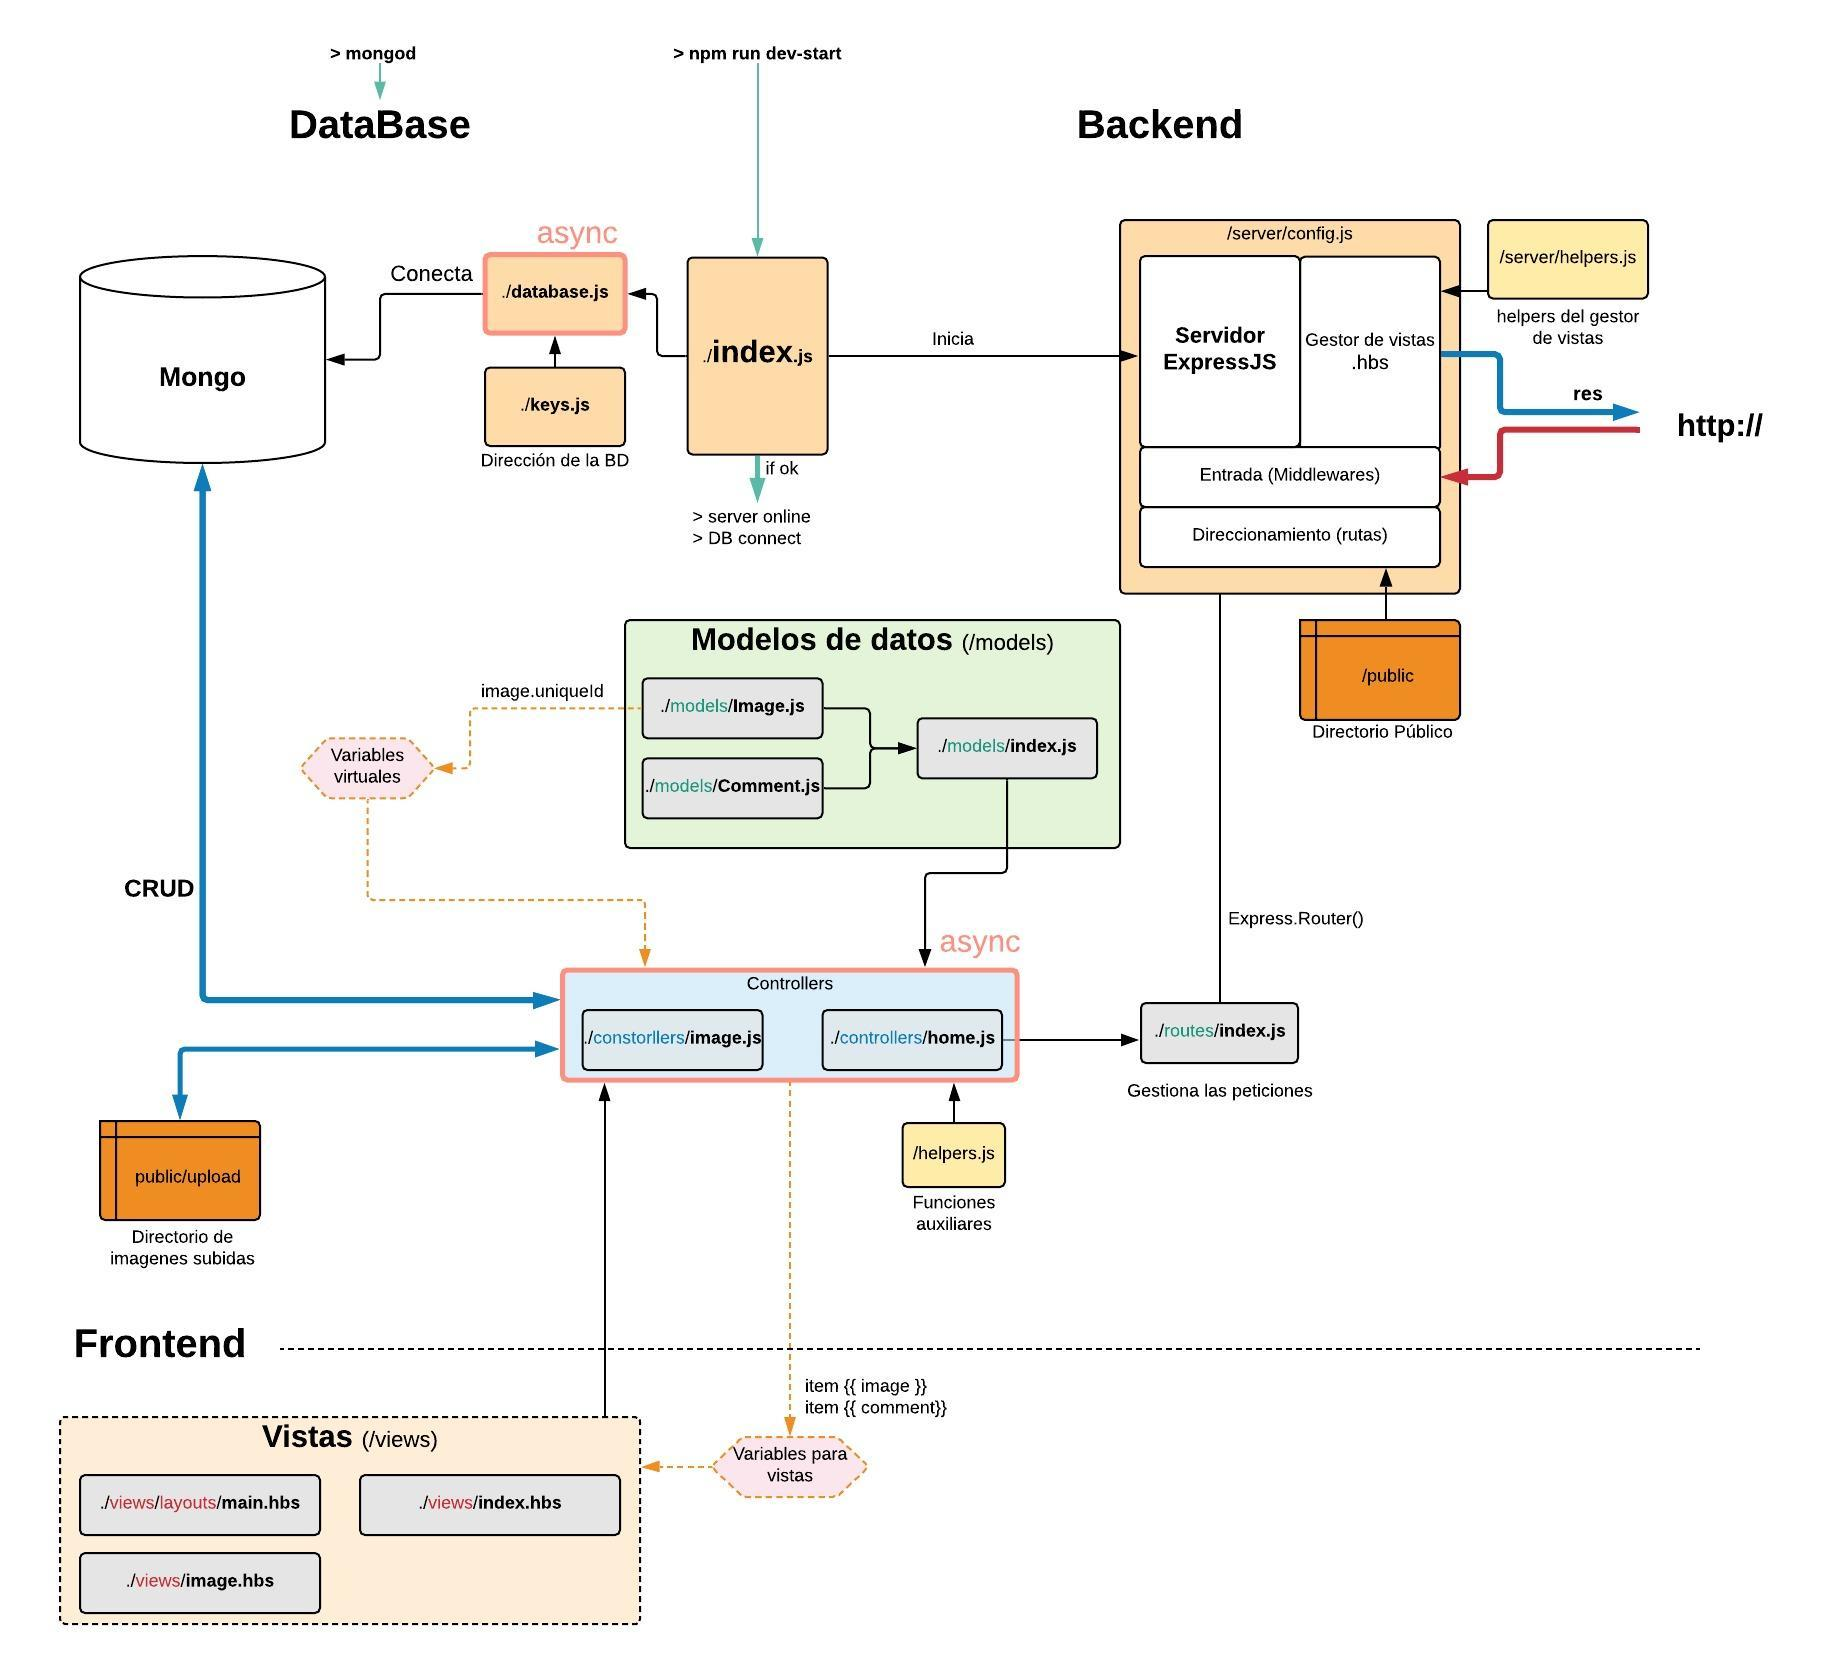
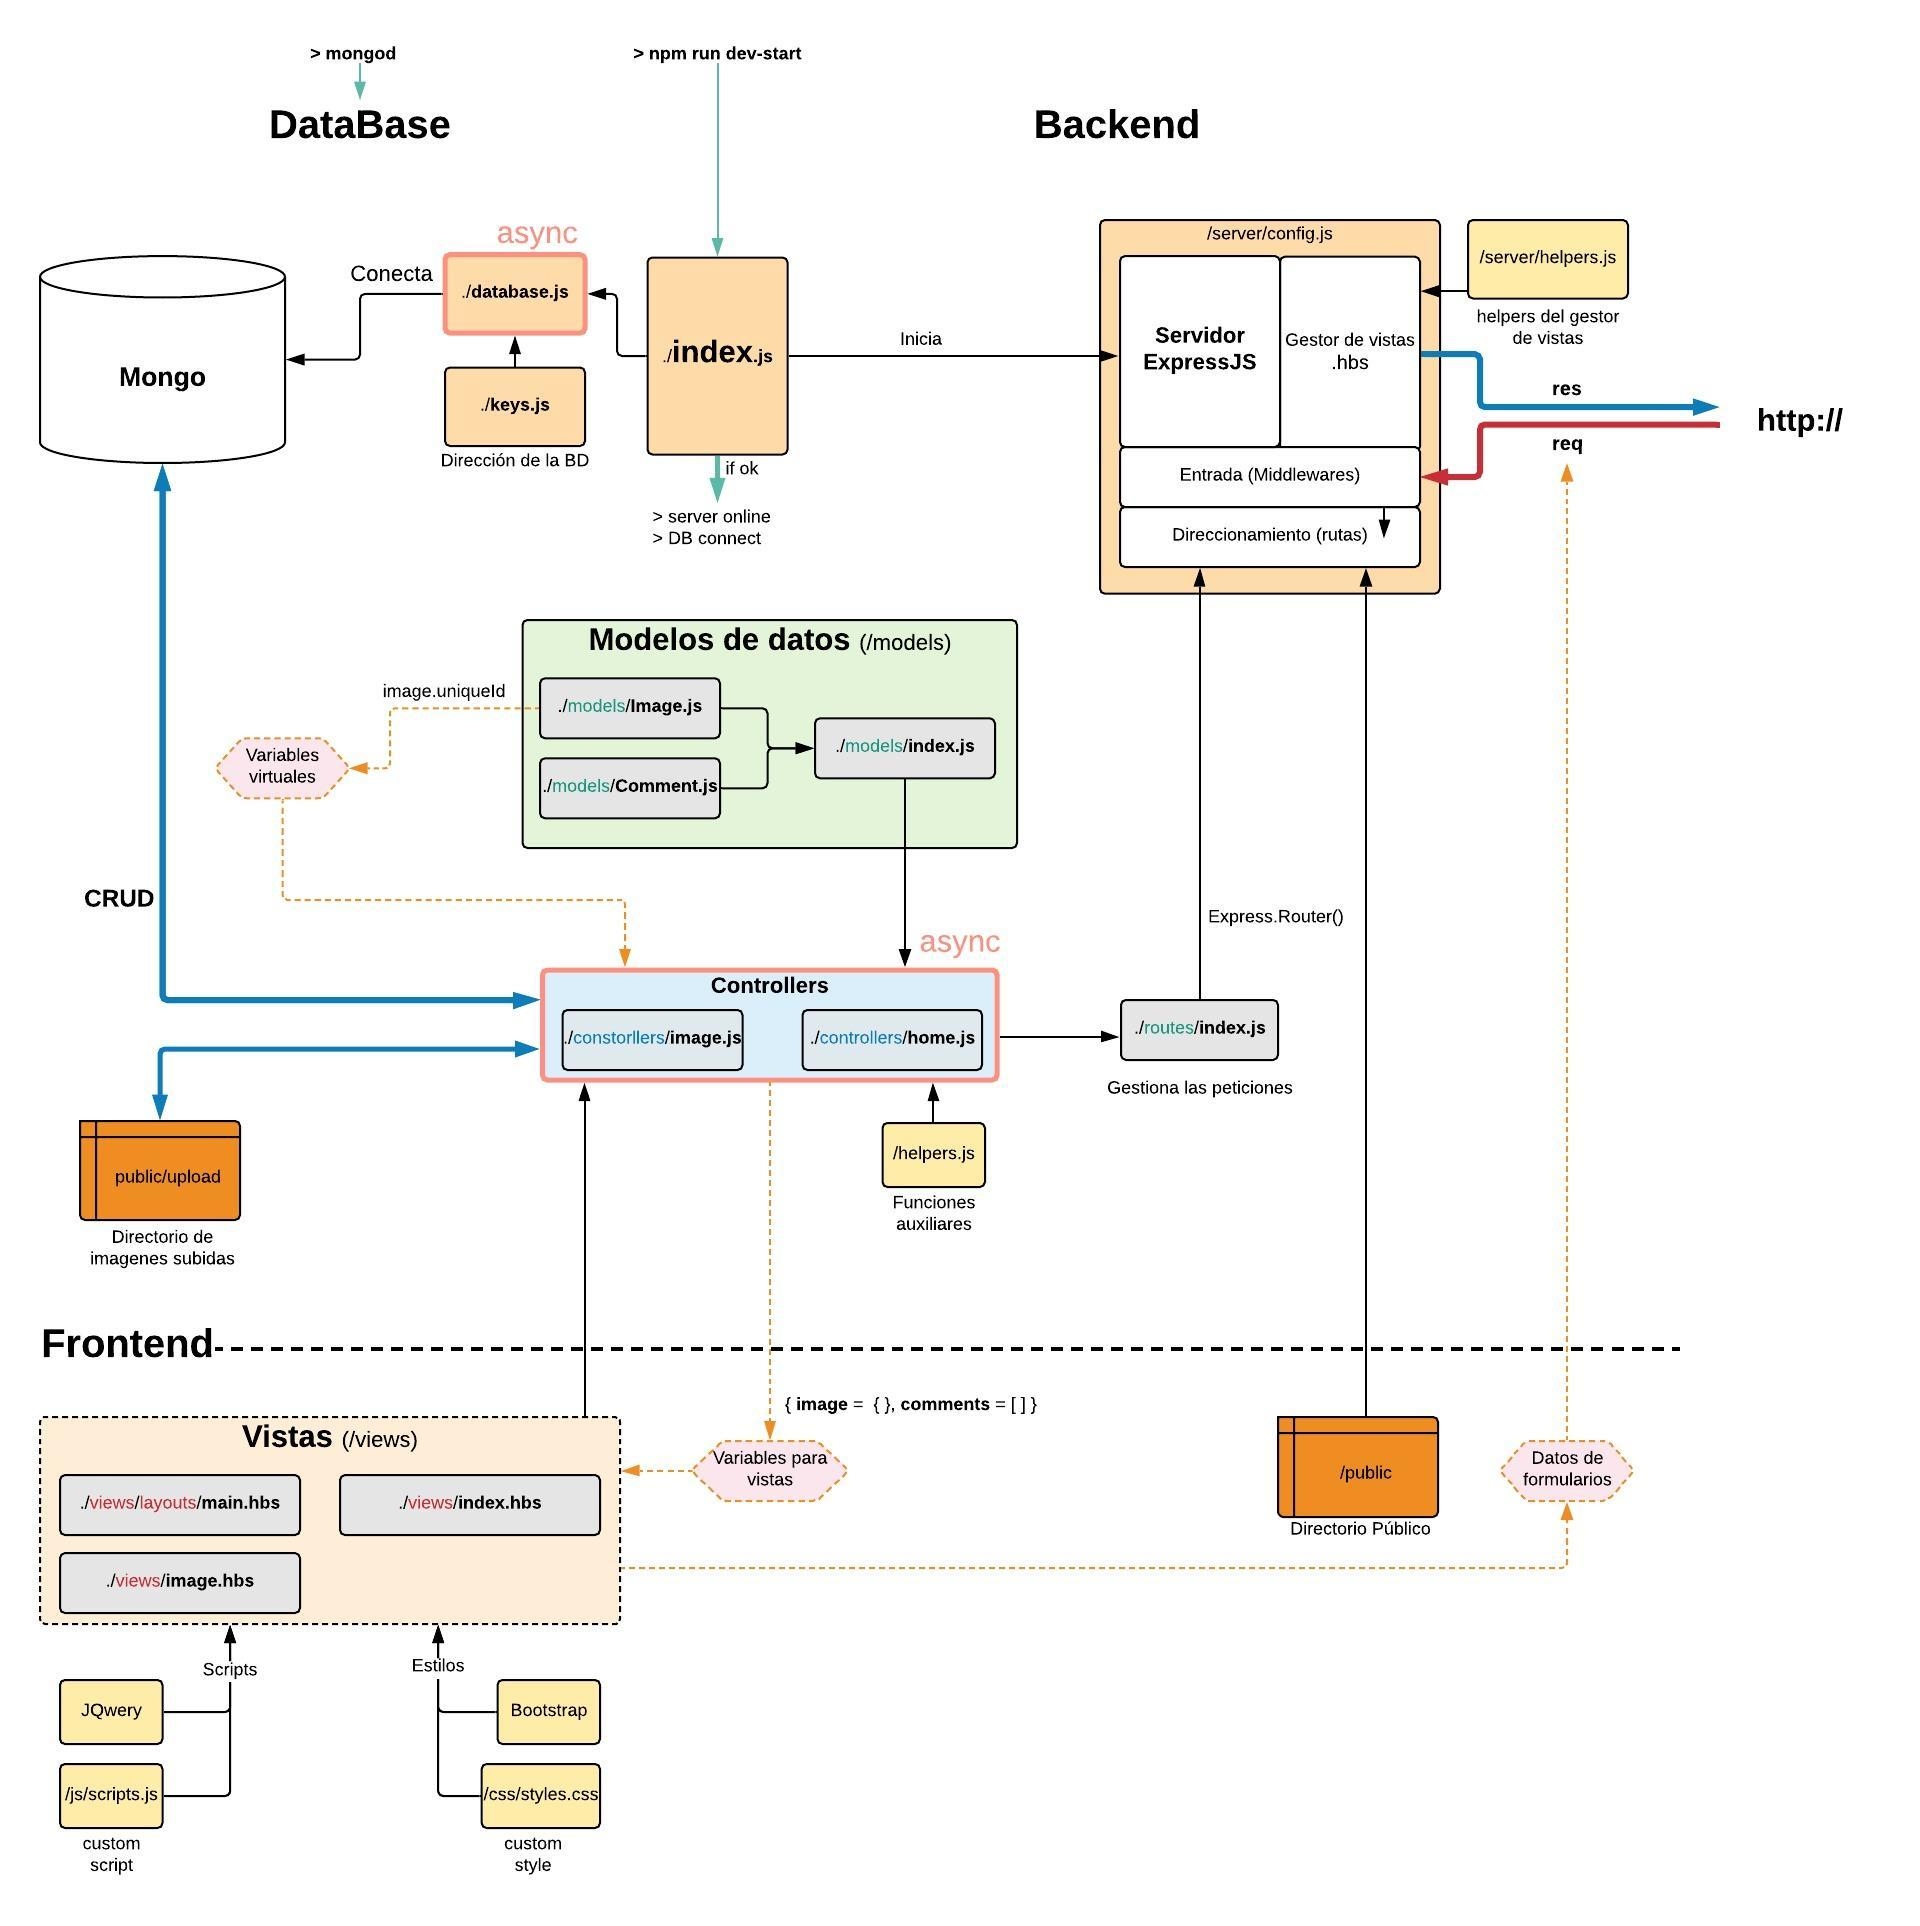
... Contador de visitas y likes funcional

diff --git a/src/controllers/image.js b/src/controllers/image.js
@@ -7,6 +7,7 @@
 const path = require('path');                             // Funciones para nombres de directorios
 const fs = require('fs-extra');                           // Funciones extra file system
 const md5 = require('md5');                               // Manejo de hash
+
 const { randomNumber } = require('../helpers/libs');      // Helper para nombres aleatorios
 const { Image, Comment } = require('../models/index');    // Modelos de la base de datos
 
@@ -17,9 +18,20 @@ const ctrl = {};
  */
 ctrl.index = async (req, res) => {
   // Búsqueda. La expresión regular es para que incluya la extensión en la dirección 
-  const image = await Image.findOne({ filename: { $regex: req.params.image_id } });  
-  const comments = await Comment.find({ image_id: image._id });
-  res.render('image', { image, comments });
+  let viewModel = { images: {}, comments: [] };
+
+  const image = await Image.findOne({ filename: { $regex: req.params.image_id } });
+  if (image) {
+    image.views += 1;       // Actualiza contador de views
+    viewModel.image = image;
+    image.save()
+    const comments = await Comment.find({ image_id: image._id })
+      .sort({ timestamp: 1 });
+    viewModel.comments = comments;
+    res.render('image', viewModel);
+  } else {
+    res.redirect('/');
+  }
 };
 
 /** Subiendo imagen al servidor 
@@ -62,9 +74,19 @@ ctrl.create = (req, res) => {
 };
 
 
-
-ctrl.like = (req, res) => {
-
+/** Like
+ * Solicitado desde botón 'like' recibe el Id de la imagen 
+ * y suma uno
+ * */
+ctrl.like = async (req, res) => {
+  const image = await Image.findOne({ filename: { $regex: req.params.image_id } });
+  if (image) {
+    image.likes += 1;
+    await image.save();
+    res.json({ likes: image.likes });
+  } else {
+    res.status(500).json({ error: 'Internal Error' });
+  }
 };
 
 /** Añade comentario

diff --git a/tutorial/Red social Imgur - Proyecto terminado/src/controllers/image.js b/tutorial/Red social Imgur - Proyecto terminado/src/controllers/image.js
@@ -13,11 +13,11 @@ ctrl.index = async (req, res) => {
   let viewModel = { image: {}, comments: [] };
   const image = await Image.findOne({filename: { $regex: req.params.image_id }});
   if (image) {
-    image.views = image.views + 1;
+    image.views += 1;
     viewModel.image = image;
     image.save();
     const comments = await Comment.find({image_id: image._id})
-      .sort({'timestamp': 1});
+      .sort({timestamp: 1});
     viewModel.comments = comments;
     viewModel = await sidebar(viewModel);
     res.render('image', viewModel);

diff --git a/src/public/js/scripts.js b/src/public/js/scripts.js
@@ -1,0 +1,17 @@
+
+/** LIKE BUTTON
+ * Al presionarlo, se obtiene el id de la imagen y
+ * se utiliza para ejecutar una petición POST
+ */
+// Like Button Request
+$('#btn-like').click(function (e) {
+  console.log('detectada presión en botón like')
+  e.preventDefault();
+  const imgId = $(this).data('id');
+  console.log(imgId);
+  $.post(`/images/${imgId}/like`)
+    .done((data) => {
+      console.log('back:', data);
+      $('.likes-count').text(data.likes);
+    });
+});

diff --git a/src/routes/index.js b/src/routes/index.js
@@ -3,11 +3,13 @@
 const express = require('express');
 const router = express.Router();
 
+// Controllers
 const home = require('../controllers/home');
 const image = require('../controllers/image');
 
 
 module.exports = (app) => {
+  
   router.get('/', home.index);                                // Página de inicio
   router.get('/images/:image_id', image.index);               // Página de imagen
   router.post('/images', image.create);                       // Subir imagen

diff --git a/src/server/config.js b/src/server/config.js
@@ -51,7 +51,7 @@ module.exports = (app) => {
 
   // errorhandlers
   if (app.get('env') === 'development') {       // Si la aplicación está en desarrollo
-    app.use(errorhandler);                      // usar errorHandler (gestión de errores)
+    app.use(errorhandler());                    // usar errorHandler (gestión de errores)
   }
 
 

diff --git a/CHANGELOG.md b/CHANGELOG.md
@@ -1,4 +1,14 @@
+# Gráfico de explicación del proyecto
 ![](/tutorial/images/ImShare.jpeg)
+
+# Changelog
+
+### ... Contador de visitas y likes funcional
+- Se activa contador de visitas de las imágenes
+- Se añade scripts javascript a las vistas
+  - JQuery
+  - Custom */public/js/scripts.js*
+
 ### ... Comentarios funcionales
 - Se añaden comentrios a la vista imagen
   - Añadir comentarios funcional
@@ -7,11 +17,13 @@
   - se guardan en disco duro
 - Rectificadas rutas de */routes/index*
 
+
 ### ... Vista de imagen
 - Se hacen funcionales los enlaces de la imagen
 - Al subir imagen se redirecciona a su vista
 - La vista incluye iconos de likes, views y un contador de tiempo.
   -Se añade *helper handlebars* para represental legible el atributo datetime del item mongo de la imagen
+
 
 ### ... Vista home con las imágenes subidas
 - El controller *home* genera la variable *{{{images}}* con las imágenes y lo envía a la vista *index.hbs*
